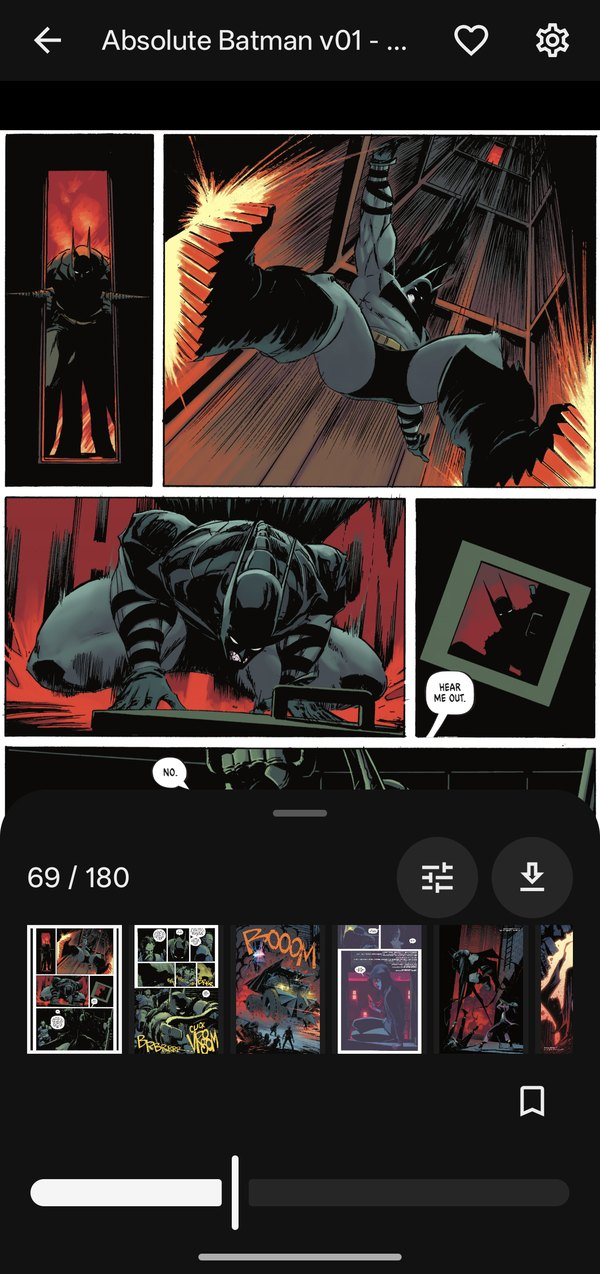
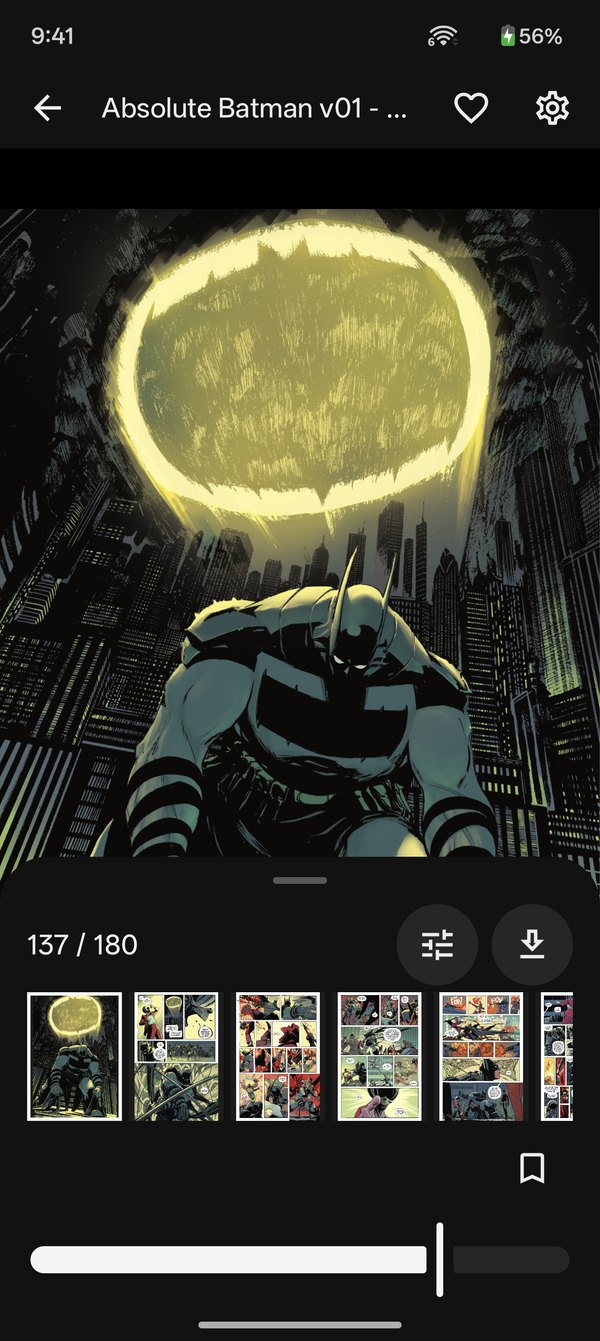
README: retake all screenshots with a clean status bar
Taken in SystemUI demo mode (fixed 9:41 clock, no notification icons),
full screen instead of cropped. The reader, controls and zoom shots use
the owner's pick, the bat-signal splash on page 137.

diff --git a/README.md b/README.md
@@ -6,11 +6,11 @@
 
 <p align="center">
   <img src="docs/screenshots/library.jpg" width="200" alt="The library: pixel-block title, the Continue reading wheel with the current book centred, and a grid of comic covers under a floating section bar">
-  <img src="docs/screenshots/reader.jpg" width="200" alt="A comic page open in the reader, edge to edge on true black">
+  <img src="docs/screenshots/reader.jpg" width="200" alt="A full-page splash of Batman under the bat-signal, edge to edge on true black">
   <img src="docs/screenshots/reader-controls.jpg" width="200" alt="The reader's controls: page thumbnails, a seek slider and a bookmark">
 </p>
 <p align="center">
-  <img src="docs/screenshots/zoom.jpg" width="200" alt="A comic panel zoomed in, the linework still sharp">
+  <img src="docs/screenshots/zoom.jpg" width="200" alt="The same page zoomed in on Batman, the linework still sharp">
   <img src="docs/screenshots/epub-contents.jpg" width="200" alt="A 2,734-chapter web novel with its contents list and in-book search open">
   <img src="docs/screenshots/settings.jpg" width="200" alt="Settings: night mode, true black, and the library's folders">
 </p>
